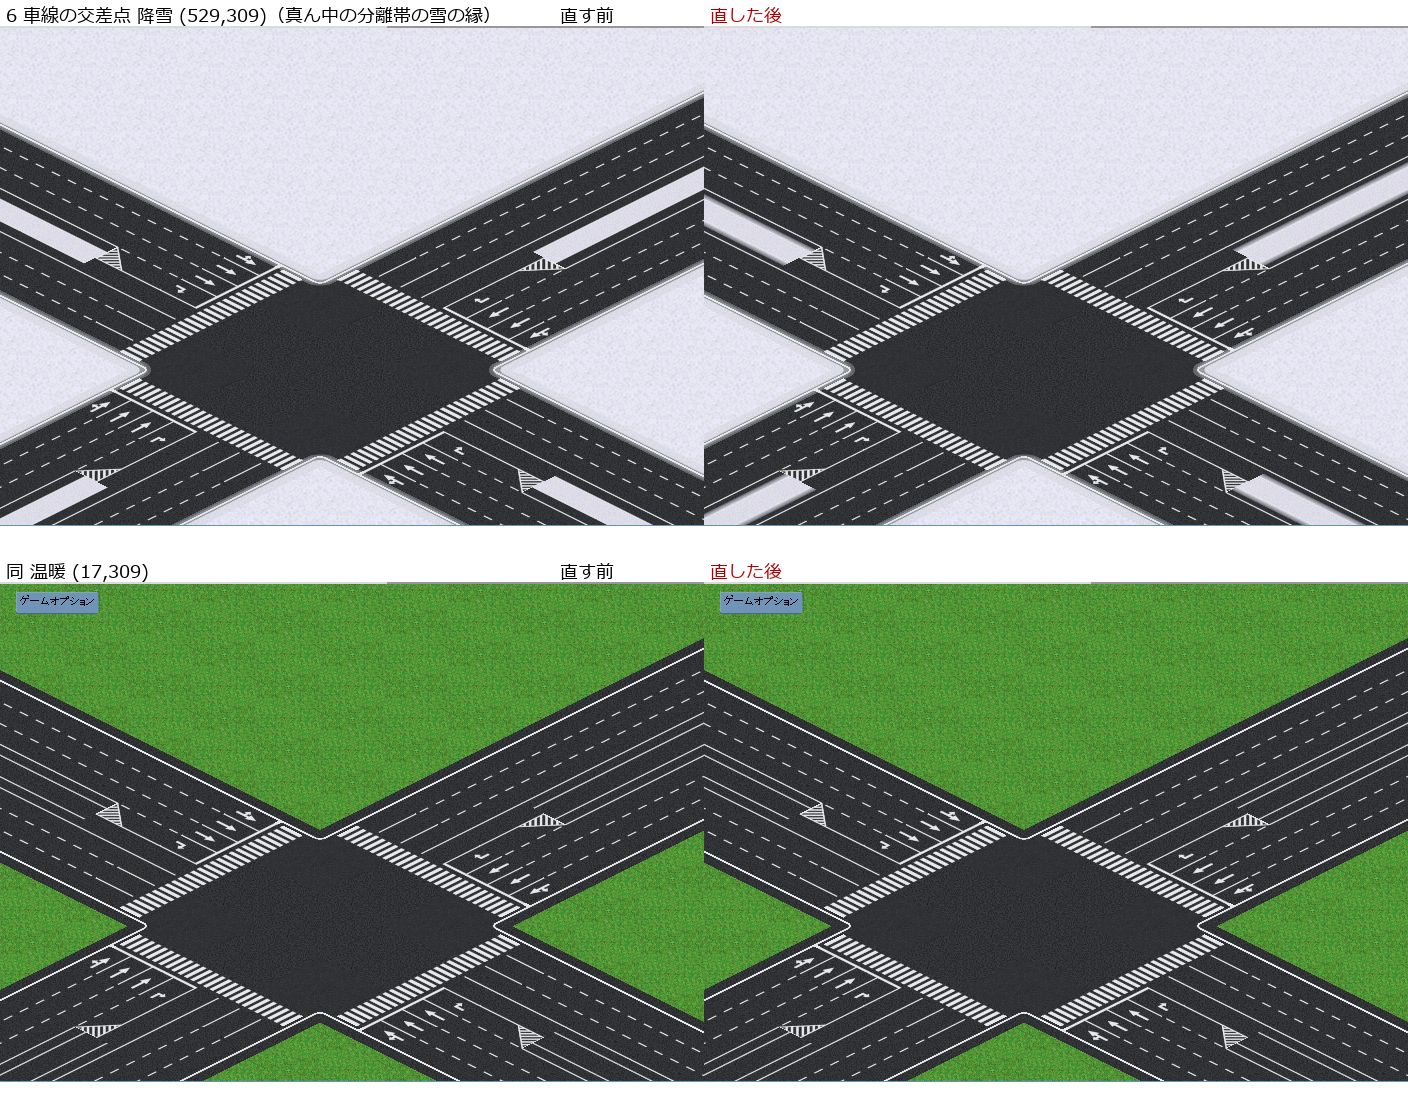
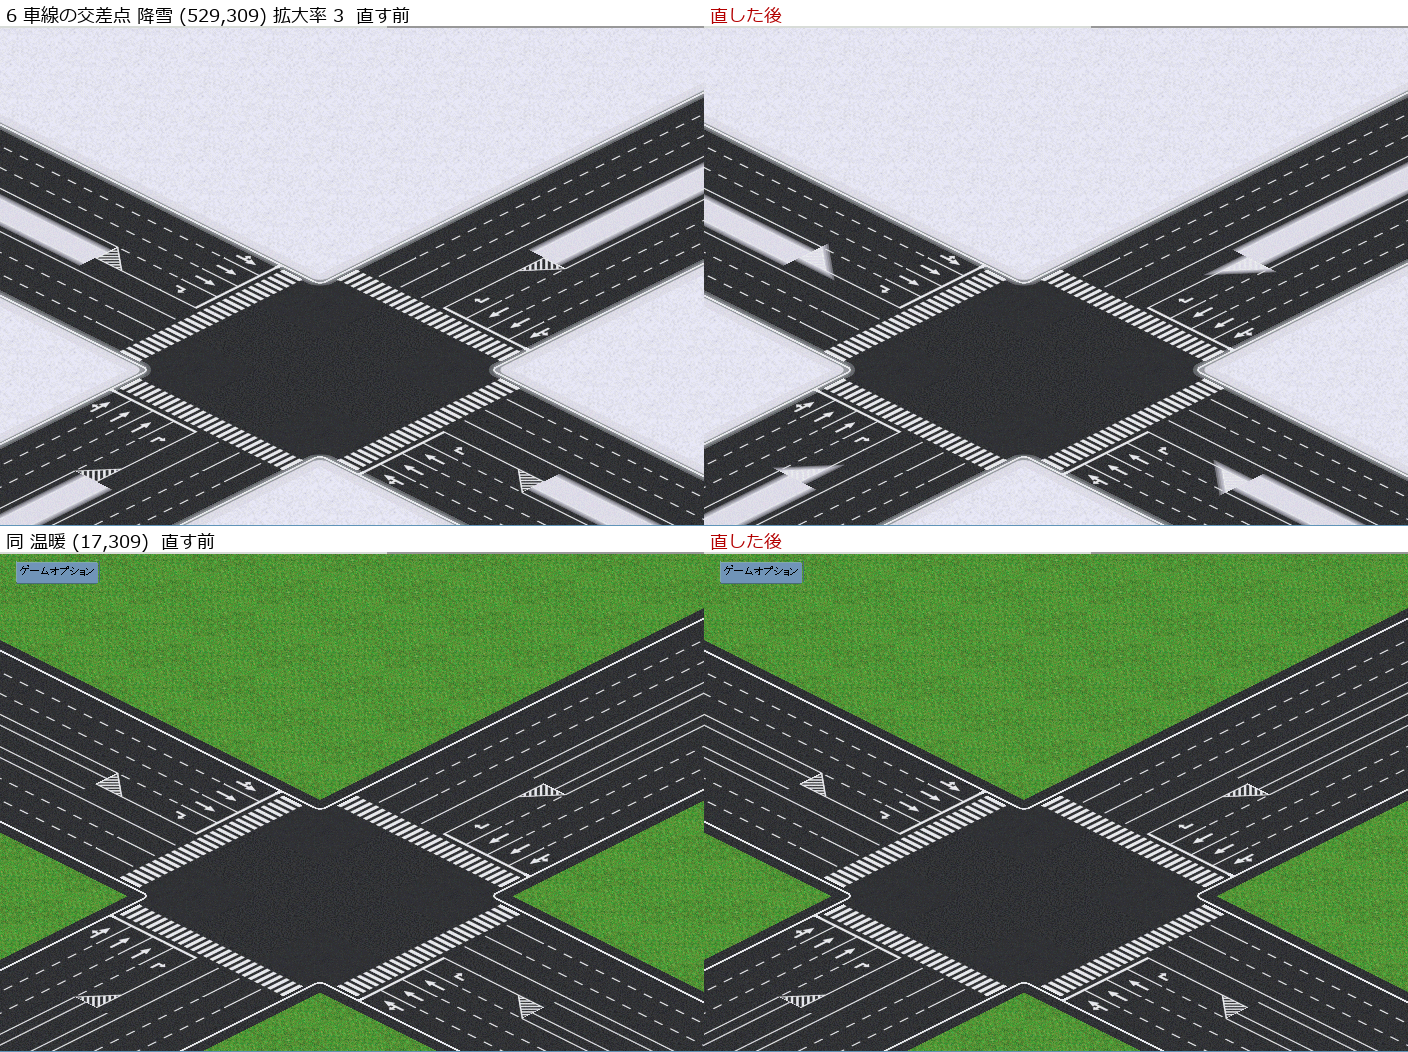
ami: update the junction screenshots and notes (#197)

diff --git a/addons/ami/README.md b/addons/ami/README.md
@@ -1048,7 +1048,7 @@ PORT=47300 bash ingame/game.sh STOP
 第 3 弾の路面表示と運河に汚しを付けた（2026-11-23、ユーザーが案 A〜C を「お勧め順で」と決めた）。直す前後の画像は [docs/197_weathering/](docs/197_weathering/)（拡大率 3。座標は `catalog` の保存データ `ami_catalog.sve` のもの）。
 
 - **路面表示の白線の擦れ**: 白線の材質を一色（0.80）から、0.72〜0.88 の粗いまだら（Scale 12）にした（`blender/render.py` の `MARKING_WORN`）。平均の明るさと自己発光（0.35）は元と同じ。細かいまだら（Scale 60）にすると 1px の路側線が点々に欠け、暗くすると灰色に沈んだので、明暗の幅は ±0.08 に抑えた。効きは小さい。下の道路の白線は一色のまま。
-- **6 車線の分離帯の雪の縁のぼかし**: 雪の板（`lane6_m` の雪の絵）の縦の縁に、路面から雪へ寄せた 4 段のまだら（幅 0.2 ずつ。`MARKING_SLUSH_T`）を重ねた。ほかの路面表示の雪は下の道路の路肩の雪のまだら（`SNOW_LAYERS`）で、すでに 4 段でぼけている。板の端（タイルの境）のぼかしは付けていない（板がタイルの端で終わるため）。
+- **雪の縁のぼかし**: 雪の板（6 車線の分離帯。`lane6_m`）の縁に、路面から雪へ寄せた 4 段のまだら（幅 0.2 ずつ。`MARKING_SLUSH_T`）を重ねた。交差点の腕の 2 マス目（4×4・6×6。`junction4_*`・`junction6_*`）では、雪の帯・板が導流帯の三角の中へ細くなって続き、斜めの縁も同じ 4 段のぼかしにした（ユーザーの指摘、2026-11-23）。三角の縞の線は白いので、雪の上では見えにくい。ほかの路面表示の雪は、下の道路の路肩の雪のまだら（`SNOW_LAYERS`）がすでに 4 段でぼけている。
 - **運河の水面**: さざ波と岸の影を試したが、交差点と直線で波が連続しないとユーザーに指摘され、取り下げて元の絵に戻した（2026-11-23。運河・景観の運河・運河の踏切のシート）。
 - 直していないもの: 景観の運河の斜めの内壁の細い横線と、坂の側面のまだら（#161 から回したもの。タイルの境ごとの形の問題で、材質では直らない）、道路の分岐の絵（#46・#205）の降雪の境のぼかし。
 
